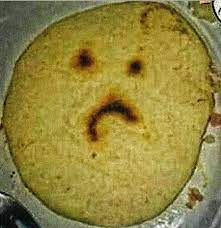
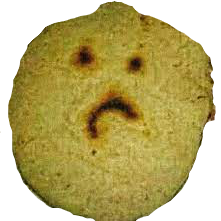
creacion de rutas y componentes iniciales

diff --git a/src/App.js b/src/App.js
@@ -1,17 +1,23 @@
-import Initial from '../src/components/Initial';
-// import background from '../src/img/background.jpg';
+import React from "react";
+import { BrowserRouter, Switch, Route } from "react-router-dom";
+import Init from "./components/Init";
+import Tablets from "./components/Tablets";
+import Kitchen from "./components/Kitchen";
+import NotFound from "./components/Notfound";
+import Menu from "./components/Menu";
 
-function App() {
+
+const App = () => {
   return (
-    <div className= "App">
-      <header>
-        
-      </header>
-      <body>
-      <Initial></Initial>
-      </body>
-    </div>
+    <BrowserRouter>
+      <Switch>
+        <Route exact path="/" component={Init} />
+        <Route exact path="/Tablets" component={Tablets} />
+        <Route exact path="/Menu" component={Menu}/>
+        <Route exact path="/Kitchen" component={Kitchen} />
+        <Route component={NotFound}/>
+      </Switch>
+    </BrowserRouter>
   );
-}
-
+};
 export default App;

diff --git a/src/components/Tablets.js b/src/components/Tablets.js
@@ -1,0 +1,29 @@
+import React from "react";
+import { Link } from "react-router-dom";
+
+const Tablets = () => (
+<div className="container">  
+    <div className="row" >
+      <div className="col-4">
+        <Link to="/Menu"> 1 </Link>
+      </div>
+      <div className="col-4">
+        <Link to="/Menu"> 2 </Link>
+      </div>
+      <div className="col-4">
+        <Link to="/Menu"> 3 </Link>
+      </div>
+      <div className="col-4">
+        <Link to="/Menu"> 4 </Link>
+      </div>
+      <div className="col-4">
+        <Link to="/Menu"> 5 </Link>
+      </div>
+      <div className="col-4">
+        <Link to="/Menu"> 6 </Link>
+      </div>
+    </div>
+</div>
+);
+
+export default Tablets;

diff --git a/src/components/Init.js b/src/components/Init.js
@@ -1,0 +1,22 @@
+import React, { Fragment } from "react";
+import logo_todo from "../img/logo_todo.png";
+import { Link } from 'react-router-dom';
+
+const Init = () => {
+  return (
+    <Fragment>
+      <div className="row">
+        <div className="col">
+          <img className="logo-home" src={logo_todo} alt="" />
+        </div>
+        <div className="col order-5">
+          <h2>¿Quien eres?</h2>
+          <Link className="btn btn-dark" to="/Tablets">MESERO</Link>
+          <Link className="btn btn-dark" to="/Kitchen">COCINA</Link>
+        </div>
+      </div>
+    </Fragment>
+  );
+};
+
+export default Init;

diff --git a/src/index.js b/src/index.js
@@ -1,9 +1,10 @@
-import React from 'react';
-import ReactDOM from 'react-dom';
-import App from './App';
+import React from "react";
+import ReactDOM from "react-dom";
+import "bootstrap/dist/css/bootstrap.css";
+import App from "./App";
+import "./App.css";
+// import reportWebVitals from "./reportWebVitals"; //para trabajar sin conexion
 
-ReactDOM.render(
-    <App />,
-  document.getElementById('root')
-);
+ReactDOM.render(<App />, document.getElementById("root"));
 
+// reportWebVitals();

diff --git a/public/index.html b/public/index.html
@@ -9,12 +9,7 @@
       name="description"
       content="Web site created using create-react-app"
     />
-    <link
-      href="https://cdn.jsdelivr.net/npm/bootstrap@5.0.2/dist/css/bootstrap.min.css"
-      rel="stylesheet"
-      integrity="sha384-EVSTQN3/azprG1Anm3QDgpJLIm9Nao0Yz1ztcQTwFspd3yD65VohhpuuCOmLASjC"
-      crossorigin="anonymous"
-    />
+    
     <title>Miss Arepita</title>
     <link rel="icon" href="../src/img/arepita.png">
   </head>

diff --git a/src/components/Notfound.js b/src/components/Notfound.js
@@ -1,0 +1,14 @@
+import React from "react";
+import arepa_triste from '../img/arepa_triste.png';
+
+const NotFound = () => {
+  return (
+    <React.Fragment>
+        <div className="NotFound">
+            <img src={arepa_triste} alt="" />
+        </div>
+    </React.Fragment>
+  );
+};
+
+export default NotFound;

diff --git a/src/App.css b/src/App.css
@@ -1,0 +1,10 @@
+body {
+  background-image: url("./img/background.jpg");
+  margin: 0%;
+  padding: 0%;
+}
+.NotFound {
+display: flex;
+flex-direction: column;
+
+}

diff --git a/src/components/Kitchen.js b/src/components/Kitchen.js
@@ -1,0 +1,9 @@
+import React from "react";
+
+
+const Kitchen = () => {
+    return(
+      <h1>Estoy en cocina</h1>
+    )
+  }
+  export default Kitchen;

diff --git a/src/components/Menu.js b/src/components/Menu.js
@@ -1,0 +1,10 @@
+import React from "react";
+
+
+
+const Menu = () => {
+    return(
+      <h1>Estoy en Pedidos</h1>
+    )
+  }
+  export default Menu;
